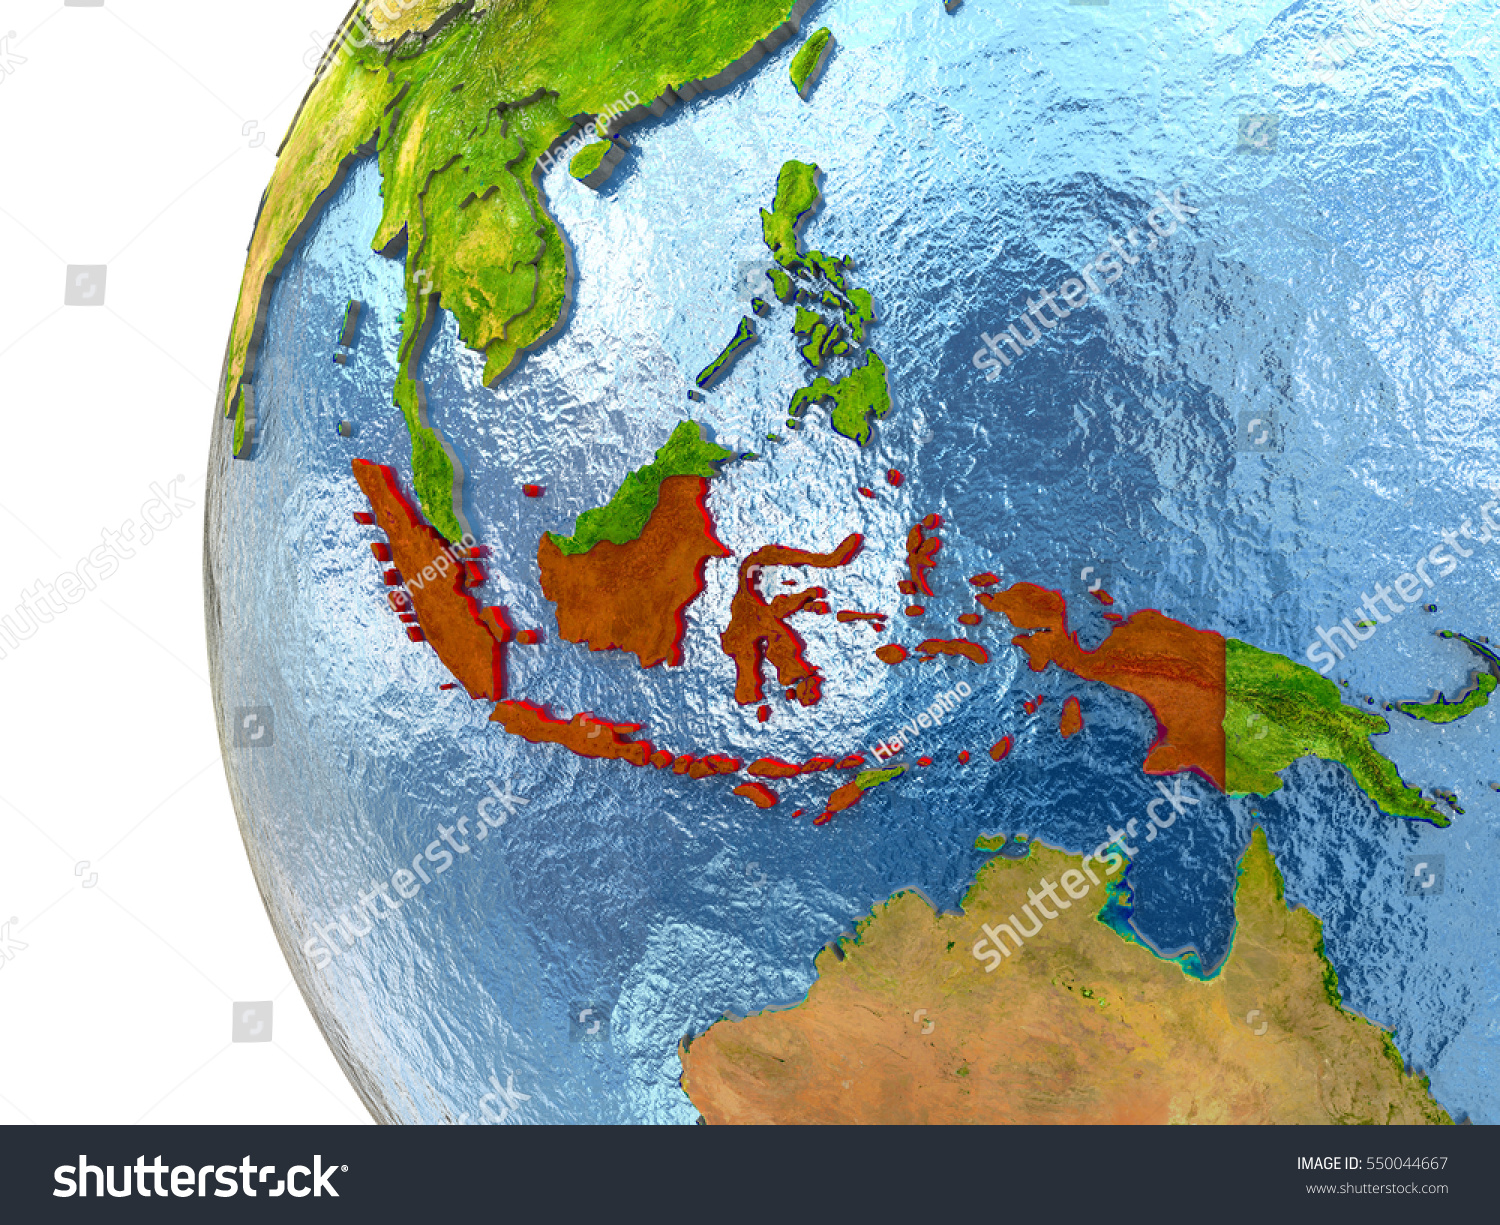
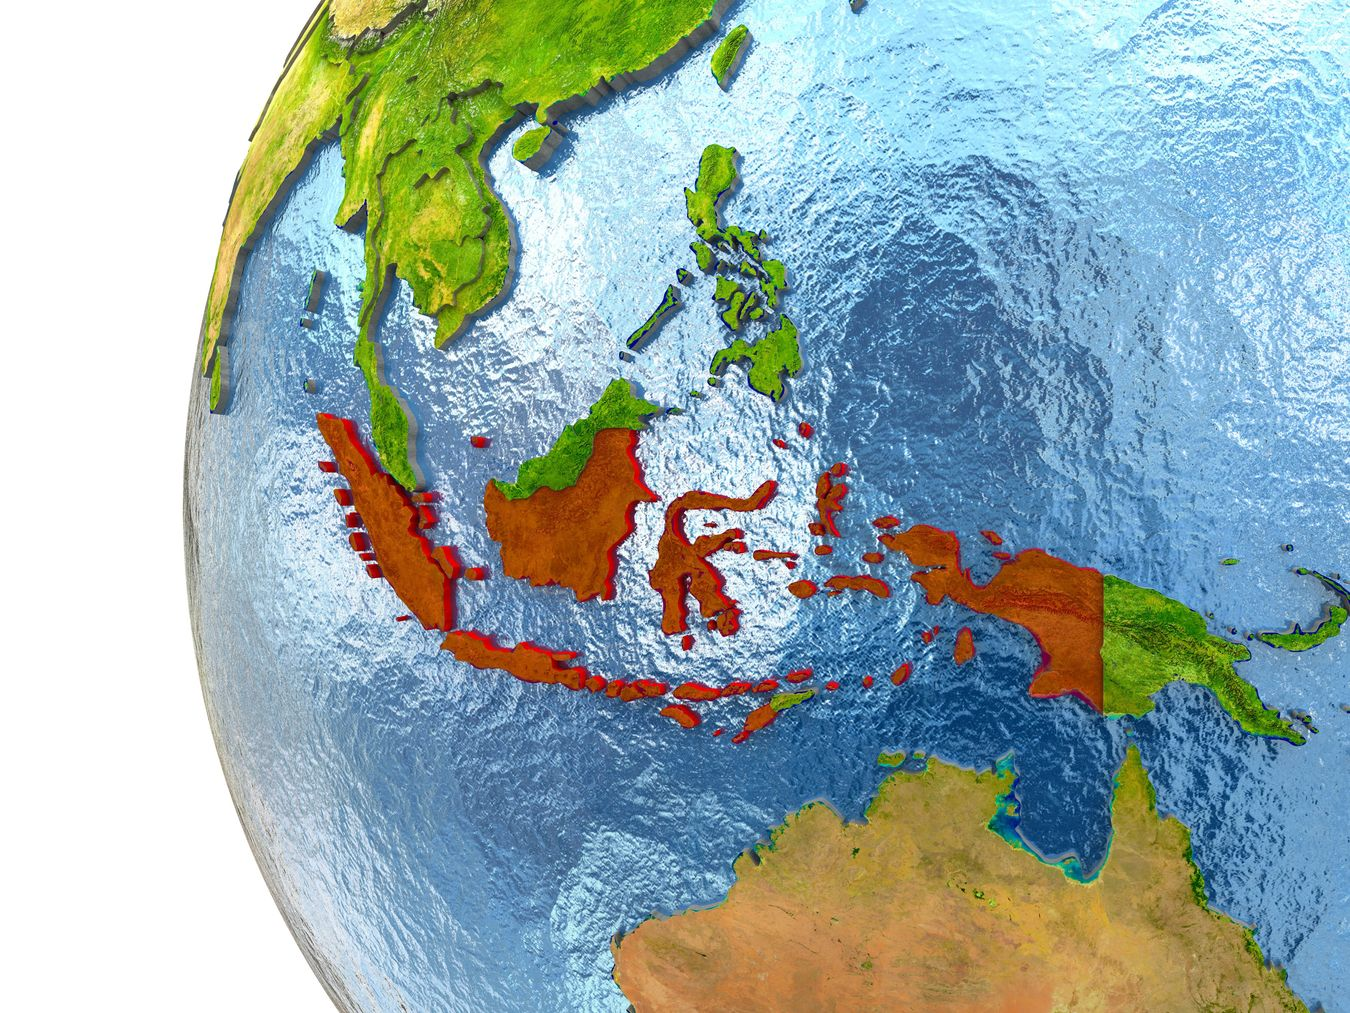
change hero image with licensed image

diff --git a/src/_style/blocks/_home-hero.scss b/src/_style/blocks/_home-hero.scss
@@ -111,6 +111,7 @@ $app-home-hero-button-shade: 25%;
 .app-home-hero__image-container {
   z-index: -1;
   background-image: url('/assets/images/indonesia-map.jpg');
+  background-position-y: 70%;
   background-size: cover;
   background-repeat: no-repeat;
   min-height: 200px;
@@ -119,6 +120,7 @@ $app-home-hero-button-shade: 25%;
 
   @include govuk-media-query($from: desktop) {
     background-position-x: 100px;
+    background-position-y: inherit;
     border-top: none;
     position: absolute;
     height: 100%;
